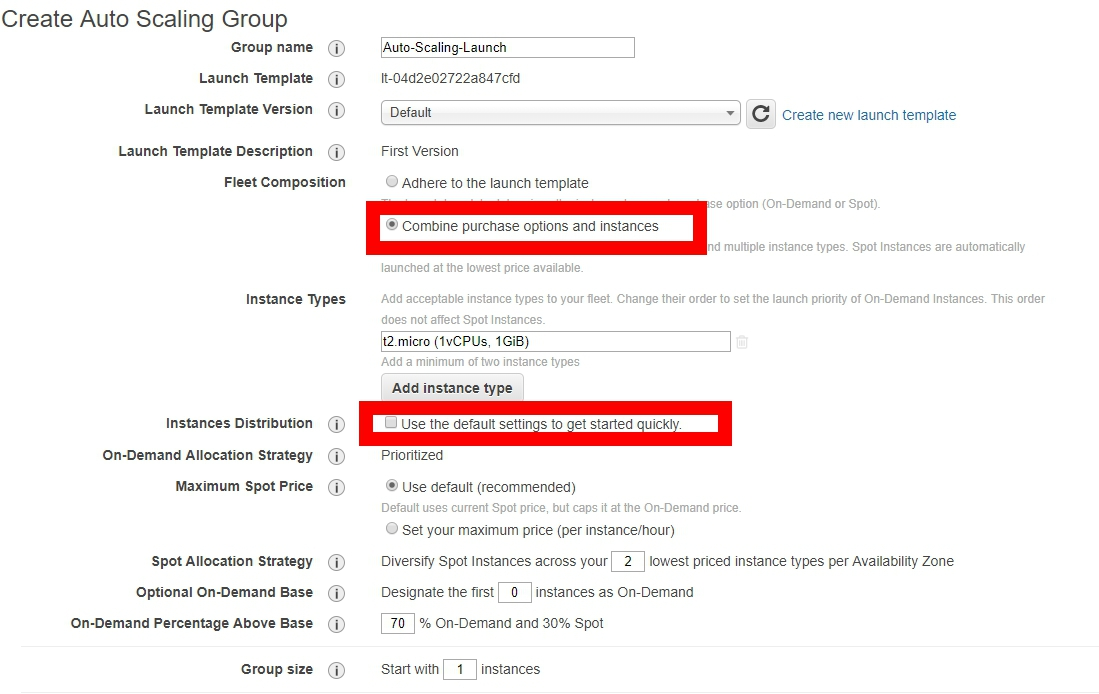
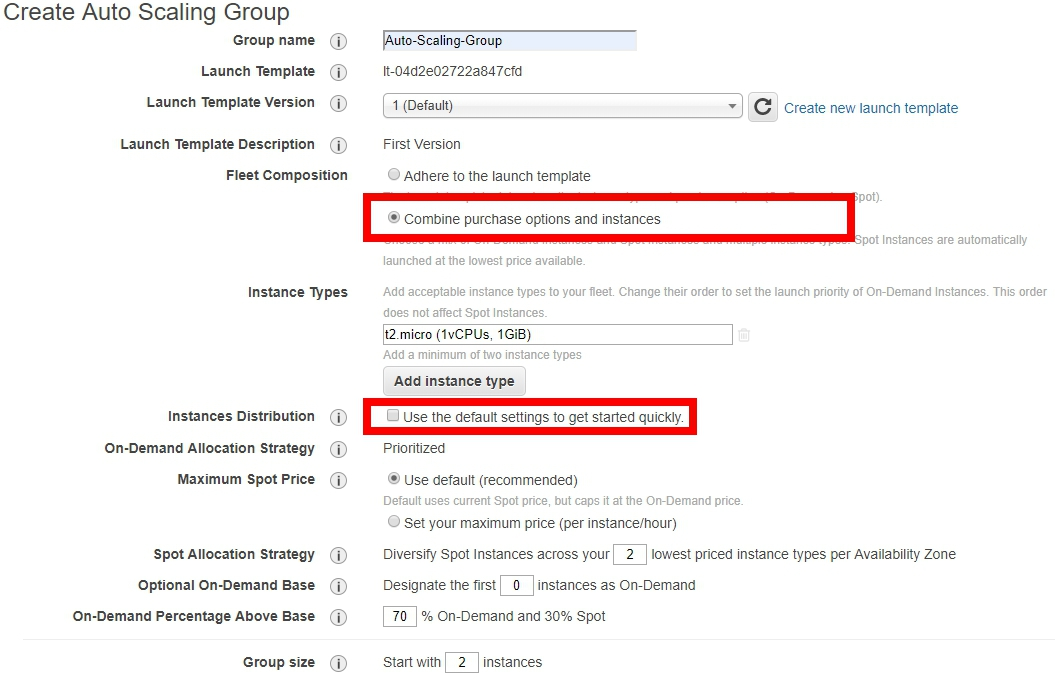
change auto scaling & bee gun settings

Changed region(s): [[0.0, 0.0, 1.0, 0.9278], [0.2123, 0.9588, 0.5156, 1.0], [0.637, 0.4948, 0.6673, 0.5258]]

diff --git a/Lab4 - elastic your architecture/Bees-with-Machine-Guns/README.md b/Lab4 - elastic your architecture/Bees-with-Machine-Guns/README.md
@@ -142,32 +142,38 @@ ec2_region_endpoint=us-east-1.ec2.amazonaws.com
 
 ```cd /home/ec2-user/.ssh/```
 
-> Since we're going to generate bees, we need to check out the commands we use
+Since we're going to generate bees, we need to check out the commands we use
 
->bees up : generate bees instances on AWS
-bees down : stop and terminate all bees on AWS
-bees report : monitor all bees and send a report to BeeServer
-bees attack : conduct your bees to attack a target!
-
-
->bees up
--s : number of bees
--k : keypair name
--z : available zone
--g : security group name
--l : username
--i : AMI id
--t : instance type
+    bees up : generate bees instances on AWS
+    bees down : stop and terminate all bees on AWS
+    bees report : monitor all bees and send a report to BeeServer
+    bees attack : conduct your bees to attack a target!
 
 
->bees attack
--n : attack times
--c : participate bees number
--k : keypair name
--u : target location'
+bees up
+
+    -s : number of bees
+    -k : keypair name
+    -z : available zone
+    -g : security group name
+    -l : username
+    -i : AMI id
+    -t : instance type
+
+
+bees attack
+
+    -n : attack times
+    -c : participate bees number
+    -k : keypair name
+    -u : target location'
 
 
 2. Generate Bees using Bees up command
+
+> Notice 1: Change "MyAmazonKeypair" to your keypair name.
+
+> Notice 2: You should setup your bees in the same AZ as your bee server.
 
 You can type some important part of the command and leave others default, like:
 
@@ -183,7 +189,6 @@ You can find your AMI ID in here:
     <img src="images/AMI.jpg" width="70%" height="70%">
 </p>
 
-> Notice: You should setup your bees in the same AZ as your bee server.
 
 3. Wait for Bees to load their machine guns, and type `bees report` to check their status.
 
@@ -197,13 +202,17 @@ You can find your AMI ID in here:
 
 4. Test your Elastic Load Balancer or Web Server using bees attack command:
 
->**Notice again, to avoid the unnecessary attack, do not try any other website!**
+> Notice: you can change the attack count if you want.
+
+> **Notice again, to avoid the unnecessary attack, do not try any other website!**
 
 Test ELB:
-```bees attack -n 1000 -c 2 -k MyAmazonKeypair -u http://WebServerLB-XXXXXXXXX.us-east-1.elb.amazonaws.com/```
+```bees attack -n 15000 -c 2 -k MyAmazonKeypair -u http://WebServerLB-XXXXXXXXX.us-east-1.elb.amazonaws.com/```
 
 Test WebServer:
-```bees attack -n 1000 -c 2 -k MyAmazonKeypair -u http://XX.XX.XX.XX```
+```bees attack -n 15000 -c 2 -k MyAmazonKeypair -u http://XX.XX.XX.XX```
+
+> 
 
 <p align="center">
     <img src="images/bees_attack.jpg" width="100%" height="100%">

diff --git a/Lab4 - elastic your architecture/README.md b/Lab4 - elastic your architecture/README.md
@@ -255,7 +255,7 @@ Move to step [Create Auto Scaling group](#create-auto-scaling-group)
     * **Key**: `Name`
     * **Value**: `Your name`
 
-5. Scroll down to the bottom of the page, copy and paste the command line below into the **User Data** which host a static web page:
+5. Scroll down to the bottom of the page, expand **Advanced details**, copy and paste the command line below into the **User Data** which host a static web page:
 
 ```bash
 #!/bin/bash
@@ -278,7 +278,7 @@ service httpd start
 1. On the Create Auto Scaling Group, enter the following detail:
 
     * Group name: `Auto-Scaling-Group`
-    * Group size: Start with `1` instance
+    * Group size: Start with `2` instance
     * Network: select **My Lab VPC**
     * Subnet: select both **Lab Private Subnet 1** and **Lab Private Subnet 2**
 
@@ -305,7 +305,7 @@ service httpd start
 8. Specify the following settings:
     * Name: **Scale Group Size**
     * Metric type: **Average CPU Utilization**
-    * Target value: **70**
+    * Target value: **50**
 
 <p align="center">
     <img src="images/011-ASG-Policy.jpg" width="70%" height="70%">
@@ -334,6 +334,8 @@ In the ALB Website, the web page will be changed since refresh the browser. Ther
 Now you can see the **Port**, **Public IP**,**Instance ID** and **Time** shown on the page.
 
 3. Press **Refresh** to see the difference between the website.
+
+To test the Website and Elastic Load Balancer, you can try [Bees-with-Machine-Guns](Bees-with-Machine-Guns/)
 
 ## Clean up
 Make sure to clean up the service we just created.
@@ -397,5 +399,4 @@ Congratulations! now you have learned:
 * Create Auto Scaling Group
 * Trigger Auto Scaling Group with Target Tracking Scaling Policy
 
-## Appendix
-To test the Website and Elastic Load Balancer, you can try [Bees-with-Machine-Guns](Bees-with-Machine-Guns/)
+
